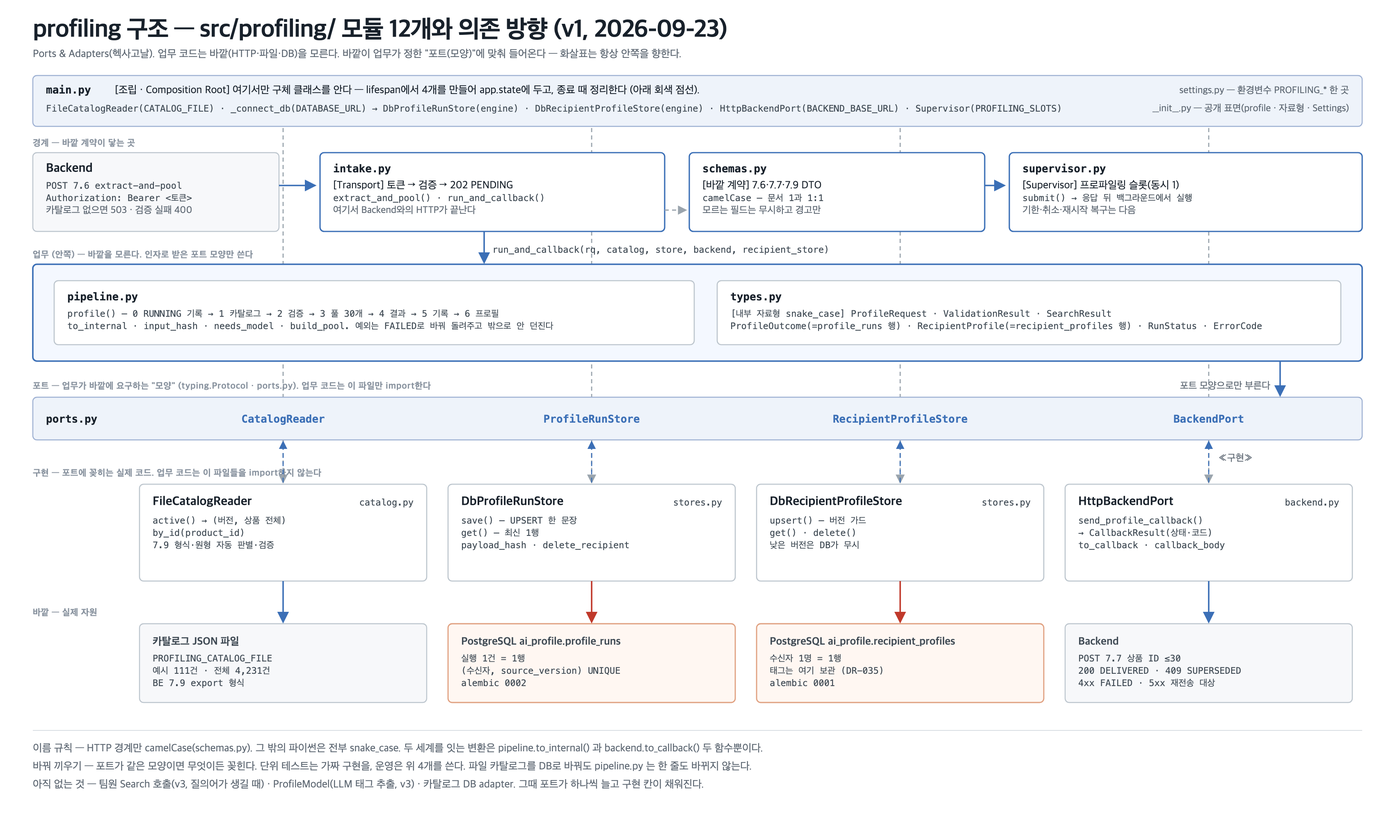
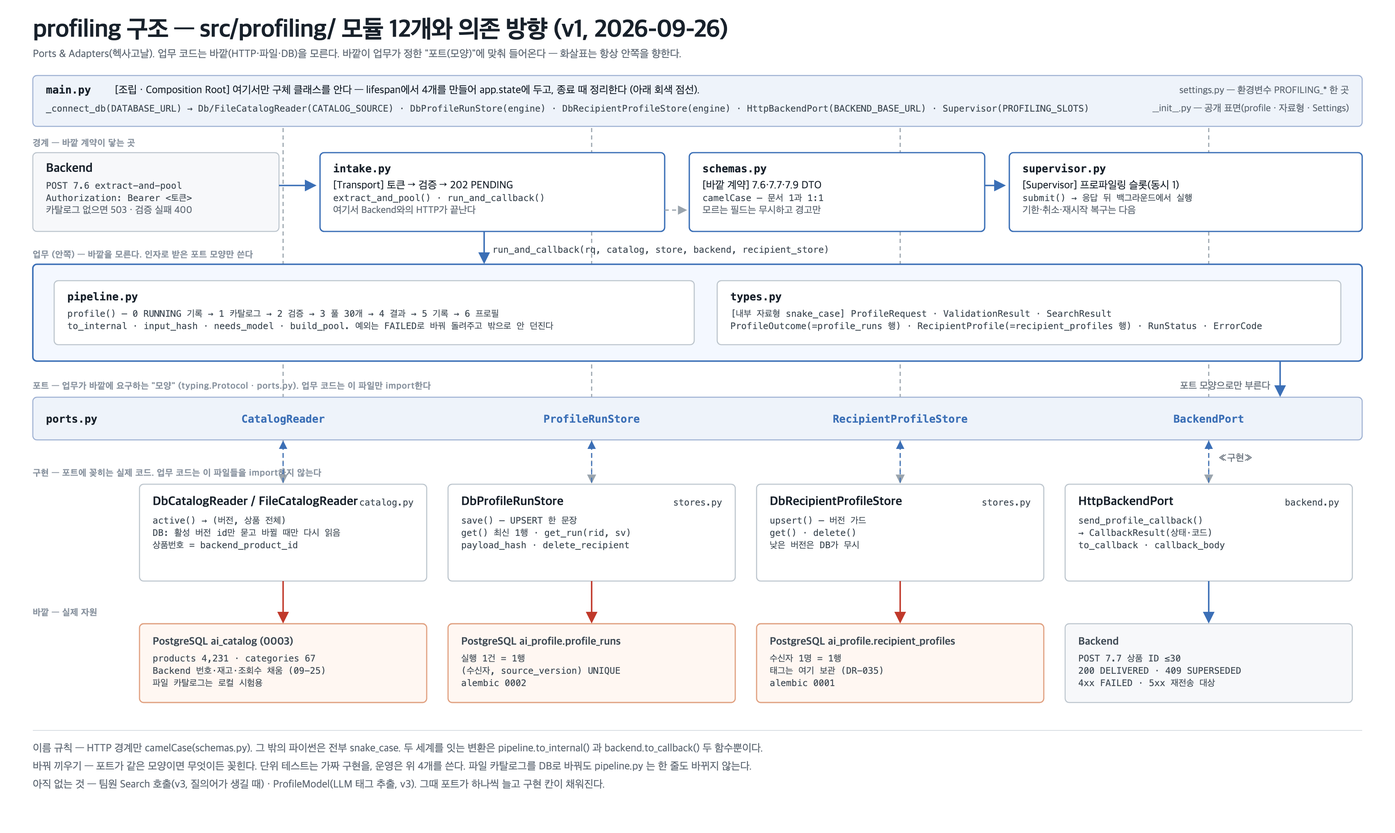
docs(profiling): 점검에서 나온 4건 수정 — 숫자·모순·빠진 이름·낡은 그림
① 시험 수  README 실행 예시(74 → 142) · 파이프라인 지도 09-25(126 → 142, 단위 110).
           09-22·09-23 판은 그날의 스냅샷이라 손대지 않는다.
② DB_ERD   §3.2·§3.3 열 설명이 "아직 전건 NULL" 인데 머리표·§6 은 4,231/4,231 이었다.
           같은 문서 안에서 서로 다른 말을 하고 있었다 → 열 설명을 회신 반영 상태로.
③ 참고 문서 코드_안내서에 decide·resend_callback·_send_and_record·get_run·CATALOG_SOURCE·
           RUNNING_STALE_S·availability(3값)를 넣고, 이름_대조표에 09-25 블록과
           callback_attempts ↔ BE retry_count 대응을 적었다.
④ 그림     structure(README 첫 화면) · class-diagram · v1-flow 세 장을 코드에 맞춰 다시 그렸다.
           - structure: 조립 줄이 CATALOG_SOURCE 로, 구현 칸에 DbCatalogReader·get_run,
             바깥 첫 칸이 파일 → ai_catalog(0003, 4,231건), "아직 없는 것"에서 카탈로그 adapter 제거
           - class-diagram: ProductRecord.available → availability, ProfileRunStore.get_run 추가,
             **없는 v3 포트 2개를 지우고 실재하는 RecipientProfileStore 와 Db 스토어 2개를 넣었다**
             (ports.py 의 Protocol 은 4개인데 그림은 v3 것을 그리고 RecipientProfileStore 를 빠뜨렸다)
           - v1-flow: 접수 단계 중복 판정 노트 추가, 카탈로그를 DB·파일로, build_pool 에 재고 규칙

그리는 과정에서 글자가 상자 밖으로 넘치는 곳 네 군데와 상자 겹침 한 곳을 같이 잡았다.
세 장 모두 렌더 후 열어 확인했다.

코드는 바뀌지 않았다 — 142 passed, 2 skipped · ruff 통과 · 깨진 링크 0 · 안 쓰는 그림 0.

diff --git a/profiling/docs/assets/build_structure.py b/profiling/docs/assets/build_structure.py
@@ -41,7 +41,7 @@ def lines(x, y, rows, dy=15):
 
 
 # ---------------------------------------------------------------- 머리
-t(40, 46, 'profiling 구조 — src/profiling/ 모듈 12개와 의존 방향 (v1, 2026-09-23)', 'title')
+t(40, 46, 'profiling 구조 — src/profiling/ 모듈 12개와 의존 방향 (v1, 2026-09-26)', 'title')
 t(40, 70, 'Ports & Adapters(헥사고날). 업무 코드는 바깥(HTTP·파일·DB)을 모른다. 바깥이 업무가 정한 "포트(모양)"에 맞춰 들어온다 — 화살표는 항상 안쪽을 향한다.', 'small')
 
 LANES = [(170, 350), (546, 350), (922, 350), (1298, 350)]   # (x, w) — 포트 4개가 세로로 한 줄씩
@@ -50,7 +50,7 @@ LANES = [(170, 350), (546, 350), (922, 350), (1298, 350)]   # (x, w) — 포트 
 box(40, 92, W - 80, 62, 'band')
 t(56, 114, 'main.py', 'monob')
 t(140, 114, '[조립 · Composition Root]  여기서만 구체 클래스를 안다 — lifespan에서 4개를 만들어 app.state에 두고, 종료 때 정리한다 (아래 회색 점선).', 'msg')
-t(56, 136, 'FileCatalogReader(CATALOG_FILE) · _connect_db(DATABASE_URL) → DbProfileRunStore(engine) · DbRecipientProfileStore(engine) · HttpBackendPort(BACKEND_BASE_URL) · Supervisor(PROFILING_SLOTS)', 'mono')
+t(56, 136, '_connect_db(DATABASE_URL) → Db/FileCatalogReader(CATALOG_SOURCE) · DbProfileRunStore(engine) · DbRecipientProfileStore(engine) · HttpBackendPort(BACKEND_BASE_URL) · Supervisor(PROFILING_SLOTS)', 'mono')
 t(W - 56, 114, 'settings.py — 환경변수 PROFILING_* 한 곳', 'sub', 'end')
 t(W - 56, 136, '__init__.py — 공개 표면(profile · 자료형 · Settings)', 'sub', 'end')
 
@@ -118,8 +118,8 @@ t(1548, PORT_Y - 10, '포트 모양으로만 부른다', 'sub', 'end')
 # ---------------------------------------------------------------- 구현
 IMPL_Y = 590
 t(40, IMPL_Y - 10, '구현 — 포트에 꽂히는 실제 코드. 업무 코드는 이 파일들을 import하지 않는다', 'tag')
-IMPL = [('catalog.py', 'FileCatalogReader', ['active() → (버전, 상품 전체)', 'by_id(product_id)', '7.9 형식·원형 자동 판별·검증']),
-        ('stores.py', 'DbProfileRunStore', ['save() — UPSERT 한 문장', 'get() — 최신 1행', 'payload_hash · delete_recipient']),
+IMPL = [('catalog.py', 'DbCatalogReader / FileCatalogReader', ['active() → (버전, 상품 전체)', 'DB: 활성 버전 id만 묻고 바뀔 때만 다시 읽음', '상품번호 = backend_product_id']),
+        ('stores.py', 'DbProfileRunStore', ['save() — UPSERT 한 문장', 'get() 최신 1행 · get_run(rid, sv)', 'payload_hash · delete_recipient']),
         ('stores.py', 'DbRecipientProfileStore', ['upsert() — 버전 가드', 'get() · delete()', '낮은 버전은 DB가 무시']),
         ('backend.py', 'HttpBackendPort', ['send_profile_callback()', '→ CallbackResult(상태·코드)', 'to_callback · callback_body'])]
 for (x, w), (mod, cls_, rows) in zip(LANES, IMPL):
@@ -133,7 +133,7 @@ t(LANES[3][0] + LANES[3][1] / 2 + 12, PORT_Y + 78, '«구현»', 'sub')
 # ---------------------------------------------------------------- 바깥
 OUT_Y = 760
 t(40, OUT_Y - 10, '바깥 — 실제 자원', 'tag')
-OUT = [('카탈로그 JSON 파일', 'ext', ['PROFILING_CATALOG_FILE', '예시 111건 · 전체 4,231건', 'BE 7.9 export 형식']),
+OUT = [('PostgreSQL  ai_catalog (0003)', 'db', ['products 4,231 · categories 67', 'Backend 번호·재고·조회수 채움 (09-25)', '파일 카탈로그는 로컬 시험용']),
        ('PostgreSQL  ai_profile.profile_runs', 'db', ['실행 1건 = 1행', '(수신자, source_version) UNIQUE', 'alembic 0002']),
        ('PostgreSQL  ai_profile.recipient_profiles', 'db', ['수신자 1명 = 1행', '태그는 여기 보관 (DR-035)', 'alembic 0001']),
        ('Backend', 'ext', ['POST 7.7 상품 ID ≤30', '200 DELIVERED · 409 SUPERSEDED', '4xx FAILED · 5xx 재전송 대상'])]
@@ -149,7 +149,7 @@ parts.append(f'<line x1="40" y1="{NY}" x2="{W-40}" y2="{NY}" class="rule"/>')
 lines(40, NY + 26, [
     ('이름 규칙 — HTTP 경계만 camelCase(schemas.py). 그 밖의 파이썬은 전부 snake_case. 두 세계를 잇는 변환은 pipeline.to_internal() 과 backend.to_callback() 두 함수뿐이다.', 'small'),
     ('바꿔 끼우기 — 포트가 같은 모양이면 무엇이든 꽂힌다. 단위 테스트는 가짜 구현을, 운영은 위 4개를 쓴다. 파일 카탈로그를 DB로 바꿔도 pipeline.py 는 한 줄도 바뀌지 않는다.', 'small'),
-    ('아직 없는 것 — 팀원 Search 호출(v3, 질의어가 생길 때) · ProfileModel(LLM 태그 추출, v3) · 카탈로그 DB adapter. 그때 포트가 하나씩 늘고 구현 칸이 채워진다.', 'small'),
+    ('아직 없는 것 — 팀원 Search 호출(v3, 질의어가 생길 때) · ProfileModel(LLM 태그 추출, v3). 그때 포트가 하나씩 늘고 구현 칸이 채워진다.', 'small'),
 ], 22)
 
 parts.append('</svg>')

diff --git a/profiling/docs/assets/build_class_diagram.py b/profiling/docs/assets/build_class_diagram.py
@@ -42,7 +42,7 @@ cls(222,258,150,'ReviewDto',['productId: int >0','rating: int 1..5','reviewText:
 cls(330,360,164,'ProfileAccepted',['recipientUserId','sourceVersion','profileStatus="PENDING"'],stereo='«7.6 응답 data»',blue=True)
 cls(56,360,250,'ProfileCallbackRequest',['recipientUserId: int >0','sourceVersion: int ≥0','profileStatus = "COMPLETED"','recommendedProductIds: list[int] ≤30','(태그 없음 — DR-035)'],stereo='«7.7 요청»',blue=True)
 cls(56,500,150,'ProfileCallbackAccepted',['recipientUserId','sourceVersion','profileStatus'],stereo='«7.7 응답 data»',blue=True)
-cls(330,585,164,'ProductRecord',['productId · name · brand','description: str|None','categoryId · categoryName','price · available','updatedAt'],stereo='«7.9 상품»',blue=True)
+cls(330,585,164,'ProductRecord',['productId · name · brand','description: str|None','categoryId · categoryName','price · availability','updatedAt'],stereo='«7.9 상품»',blue=True)
 cls(222,500,272,'SuccessResponse[T]  /  ErrorResponse',['message: str','data: T   |   error: ErrorBody{code, traceId}'],blue=True)
 line('M131 258 V246','has'); line('M297 258 V246','has')   # ExtractRequest ◇ Dto들
 
@@ -67,15 +67,16 @@ line('M576 470 H312','conv'); t(444,463,'backend.to_callback()','small','middle'
 pkg(1040,92,520,392,'ports.py — 포트 (typing.Protocol)')
 cls(1056,124,330,'CatalogReader',[],['active() → (version_id, list[ProductRecord])','by_id(product_id) → ProductRecord | None'],stereo='«Protocol»',yellow=True)
 cls(1400,124,144,'NoActiveCatalog',['(Exception)','7.6에서 503으로'])
-cls(1056,222,330,'ProfileRunStore',[],['save(outcome: ProfileOutcome) → None','get(recipient_user_id) → ProfileOutcome | None'],stereo='«Protocol»',yellow=True)
-cls(1056,320,330,'BackendPort',[],['send_profile_callback(outcome) → RunStatus'],stereo='«Protocol»',yellow=True)
-cls(1400,222,144,'(v3) ProfileModel',[],['analyze(prompt,','  schema, seed)','→ ExtractDraft'],stereo='«Protocol»',yellow=True)
-cls(1400,320,144,'(v3) Embedder',[],['embed_docs()','embed_query()'],stereo='«Protocol»',yellow=True)
+cls(1056,222,330,'ProfileRunStore',[],['save(outcome: ProfileOutcome) → None','get(recipient_user_id) → ProfileOutcome | None','get_run(rid, sv) → ProfileOutcome | None'],stereo='«Protocol»',yellow=True)
+cls(1056,332,330,'BackendPort',[],['send_profile_callback(outcome) → RunStatus'],stereo='«Protocol»',yellow=True)
+cls(1400,222,144,'RecipientProfileStore',[],['upsert(profile)','get(rid) · delete(rid)'],stereo='«Protocol»',yellow=True)
+cls(1400,332,144,'(v3 예정)',['ProfileModel','Embedder','— ports.py 에 없다'])
 t(1256,470,'ProductRecord(schemas) · ProfileOutcome(types)를 인자·반환으로 씀 → 회색 실선은 생략','st','middle')
 
 # ---------------- adapters  x 1040..1560
 pkg(1040,510,520,190,'adapters/ — 구현 (바깥과 닿는 코드). 스테레오타입이 어느 포트를 구현하는지')
-cls(1056,542,150,'FileCatalogReader',['path: Path','_products: list','_by_id: dict'],['active()','by_id()'],stereo='«CatalogReader 구현»')
+cls(1056,542,160,'Db/FileCatalogReader',['DbCatalogReader(engine)','FileCatalogReader(path)','provisional_ids'],['active()','by_id()'],stereo='«CatalogReader 구현»')
+cls(1232,542,166,'Db 스토어 2개',['DbProfileRunStore','DbRecipientProfileStore','engine: Engine'],['save · get · get_run','upsert · get · delete'],stereo='«Store 구현»')
 cls(1406,542,140,'HttpBackendPort',['base_url · token','timeout_s','_client: httpx.Client'],['send_profile_callback()','close()'],stereo='«BackendPort 구현»')
 
 # ---------------- pipeline.py  x 560..990
@@ -99,6 +100,6 @@ line('M1471 700 V740 H1206 V753','use'); t(1340,733,'httpx POST 7.7','small')
 
 parts.append(f'<line x1="40" y1="{H-70}" x2="{W-40}" y2="{H-70}" class="rule"/>')
 t(40,H-44,'의존 방향: transport → pipeline → ports ←(구현)— adapters.  업무 코드는 adapters를 import하지 않고, 조립(main.py)만 구체 클래스를 안다. 내일 DB adapter(SQLAlchemy)는 ProfileRunStore·CatalogReader를 그대로 구현해 main.py 세 줄만 교체.','small')
-t(40,H-22,'v3 추가: ProfileModel(Ollama·규칙 추출기) · Embedder(BGE-m3-ko) · Search 호출 — pipeline.profile() 안의 needs_model 분기 뒤에 붙는다. 자료형은 types.py의 DraftItem·ExtractDraft·ValidatedTag·Decision.','small')
+t(40,H-22,'v3 추가(아직 ports.py 에 선언 없음): ProfileModel(Ollama·규칙 추출기) · Embedder(BGE-m3-ko) · Search 호출 — pipeline.profile() 안의 needs_model 분기 뒤에 붙는다. 자료형은 types.py의 DraftItem·ExtractDraft·ValidatedTag·Decision.','small')
 parts.append('</svg>')
 (P/'class-diagram.svg').write_text('\n'.join(parts)+'\n',encoding='utf-8'); print('svg ok')

diff --git a/profiling/docs/assets/build_v1_flow.py b/profiling/docs/assets/build_v1_flow.py
@@ -12,7 +12,7 @@ def t(x,y,s,c='msg',anchor=None):
     parts.append(f'<text x="{x}" y="{y}" class="{c}"{an}>{escape(s)}</text>')
 # lifelines
 L=[('Backend',['(내일: 실제 · 오늘: curl)']),('intake.py',['Transport · 7.6 접수','run_and_callback() (Supervisor 슬롯)']),('pipeline.py',['to_internal · needs_model','build_pool · profile()']),
-   ('catalog.py',['CatalogReader (파일)']),('stores.py',['ProfileRunStore (DB)']),('backend.py',['BackendPort (HTTP)']),('tools/fake_backend',['7.7 수신'])]
+   ('catalog.py',['CatalogReader (DB·파일)']),('stores.py',['ProfileRunStore (DB)']),('backend.py',['BackendPort (HTTP)']),('tools/fake_backend',['7.7 수신'])]
 xs=[110,350,600,830,1020,1210,1380]
 t(40,48,'v1 프로파일링 한 건 — 파일 사이의 호출 순서 (7.6 접수 → 202 → 백그라운드 → 7.7 콜백)','title')
 t(40,74,'실선 파랑 = 호출, 점선 회색 = 반환. 노란 상자 = 그 시점에 쓰는 자료형(schemas.py = 바깥 계약 camelCase · types.py = 내부 snake_case). 조립(main.py)은 맨 아래.','small')
@@ -44,13 +44,14 @@ call(290,1,3,'catalog.active() 있는가?  없으면 503','2')
 ret(308,3,1,'(version_id, products)')
 call(335,1,0,'202 SuccessResponse[ProfileAccepted]','3'); t(120,352,'profileStatus = PENDING','mono')
 t(350,372,'── 여기서 HTTP 응답 끝. 아래는 Supervisor 슬롯 안의 백그라운드 (같은 프로세스, 응답과 무관) ──','small','middle')
+note(860,318,470,['202 직전 — 접수 단계 중복 판정 (decide)','store.get_run(수신자, sourceVersion) + input_hash 비교','analyze 아래대로 · resend 재분석 없이 7.7만 · skip 이미 RUNNING'])
 
 call(400,1,2,'to_internal(body)','4'); ret(418,2,1,'ProfileRequest  (types.py, snake_case)')
 call(450,1,2,'profile(rq, catalog=, store=)','5')
 act(2,450,690)
 note(615,462,330,['needs_model(rq) → False   (결정 c: 취향 null · 리뷰 [])','→ extract · validate 건너뜀'])
 call(530,2,3,'active()','6'); ret(548,3,2,'(1, [ProductRecord…])')
-note(615,562,420,['validation = ValidationResult(disliked_tags=비선호 이름, 나머지 [])','search = build_pool(products, 비선호 제외, 30)  (결정 a)','outcome = ProfileOutcome(RESULT_READY, validation, search)'])
+note(615,562,420,['validation = ValidationResult(disliked_tags=비선호 이름, 나머지 [])','search = build_pool(재고 unavailable 제외 · 비선호 제외 · 조회수↓ 30)','outcome = ProfileOutcome(RESULT_READY, validation, search)'])
 call(650,2,4,'save(outcome)','7'); ret(668,4,2,'')
 ret(690,2,1,'ProfileOutcome')
 note(360,705,330,['if outcome.status == RESULT_READY  → 콜백','FAILED 이면 콜백 없음 (AI는 침묵, Backend가 판정)'])
@@ -63,7 +64,7 @@ ret(884,5,1,'RunStatus  DELIVERED · SUPERSEDED · FAILED · RESULT_READY(재시
 t(350,900,'log.info("7.7 콜백 결과 … → DELIVERED")   ※ 실행 기록 상태 갱신·재시도는 DB adapter 뒤(#23)','small','middle')
 
 parts.append(f'<line x1="40" y1="{BOT+14}" x2="{W-40}" y2="{BOT+14}" class="rule"/>')
-t(40,BOT+40,'조립 (main.py, 시작 1회):  lifespan에서 FileCatalogReader(settings.CATALOG_FILE) · DbProfileRunStore(engine) · HttpBackendPort(settings.BACKEND_BASE_URL, token)를 만들어 app.state에 두고, 라우터는 Depends로 꺼내 pipeline에 넘긴다.','small')
+t(40,BOT+40,'조립 (main.py, 시작 1회):  lifespan에서 Db/FileCatalogReader(settings.CATALOG_SOURCE) · DbProfileRunStore(engine) · HttpBackendPort(settings.BACKEND_BASE_URL, token)를 만들어 app.state에 두고, 라우터는 Depends로 꺼내 pipeline에 넘긴다.','small')
 t(40,BOT+62,'의존 방향:  api → pipeline → ports(Protocol 모양)  ←구현─ adapters.   pipeline은 adapters 파일을 import하지 않는다. 테스트(tests/unit)는 ports 모양의 가짜를 넣어 5·6·7만 돌린다.','small')
 t(40,BOT+84,'v3에서 바뀌는 곳: 5단계 안에서 needs_model → True면 카탈로그 조인 → ProfileModel.analyze() → validator → Search. 1~4, 7~9는 그대로.','small')
 parts.append('</svg>')

diff --git a/profiling/docs/문서_목록.md b/profiling/docs/문서_목록.md
@@ -1,4 +1,4 @@
-# 문서 색인 — 다른 사람(또는 다른 AI)에게 넘길 때 (2026-09-26 점검)
+# 문서 색인 — 다른 사람(또는 다른 AI)에게 넘길 때 (2026-09-26 점검 · 지적 4건 반영 완료)
 
 이 폴더의 문서가 **무엇을 담고 있고, 지금 코드와 맞는지**를 한 장에 정리한 것. 넘기기 전에 이 표의 "최신성"만 보면 된다.
 
@@ -14,10 +14,10 @@
 
 | # | 문서 | 무엇 | 최신성 |
 |---|---|---|---|
-| 1 | [../README.md](../README.md) | 구조·실행·테스트·다음 순서. 시작점 | ⚠ 실행 예시의 시험 수가 낡음(§4 ①) |
-| 2 | [코드_안내서.md](코드_안내서.md) | 파일·함수별 역할 (처음 보는 사람용) | ⚠ 09-25 작업(중복 판정·재고 3값)이 빠짐(§4 ③) |
+| 1 | [../README.md](../README.md) | 구조·실행·테스트·다음 순서. 시작점 | ✅ |
+| 2 | [코드_안내서.md](코드_안내서.md) | 파일·함수별 역할 (처음 보는 사람용) | ✅ |
 | 3 | [시퀀스_전체.md](시퀀스_전체.md) | 구현된 전체 순서 — 기동·성공·접수 거절·분석 실패·콜백 4갈래·슬롯 (그림 6장) | ✅ |
-| 4 | [DB_ERD.md](DB_ERD.md) | AI가 소유한 표 5개 구조·키·관계 (그림 2장) | ⚠ 열 설명 2줄이 낡음(§4 ②) |
+| 4 | [DB_ERD.md](DB_ERD.md) | AI가 소유한 표 5개 구조·키·관계 (그림 2장) | ✅ |
 
 ## 2. 계약 (Backend와 주고받는 것)
 
@@ -27,7 +27,7 @@
 | [BE_연동_필드표_v1.md](BE_연동_필드표_v1.md) | **7.6·7.7 필드·`profileStatus` 생애주기·재시도/재전송 구분·시퀀스 6장·BE 확인 요청** — BE에 그대로 보내는 판 | ✅ (§6 오류 코드 부록은 목차에만 있고 아직 안 씀) |
 | [BE_연동_필드표_v2.md](BE_연동_필드표_v2.md) | 7.9 상품 export | ✅ |
 | [BE_연동_필드표_v3.md](BE_연동_필드표_v3.md) | 취향·리뷰(v3) | ✅ (v3는 아직 구현 전) |
-| [../이름_대조표.md](../이름_대조표.md) | 같은 뜻 다른 이름 (camelCase ↔ snake_case) | ⚠ 09-25 이름들이 빠짐(§4 ③) |
+| [../이름_대조표.md](../이름_대조표.md) | 같은 뜻 다른 이름 (camelCase ↔ snake_case) | ✅ |
 
 ## 3. 그 밖
 
@@ -37,12 +37,14 @@
 | [FE_연동_시험_결과_2026-09-25.md](FE_연동_시험_결과_2026-09-25.md) | 위 시나리오 실행 기록·분석 (8/8 통과, 고칠 것 3개) | ✅ |
 | [DB_전환_설명.md](DB_전환_설명.md) | 메모리 → PostgreSQL 전환 경위 (그림) | 📌 09-23 기록 |
 | [환경_설정.md](환경_설정.md) | uv · Python 3.12 · 의존성 | ✅ |
-| [파이프라인_지도/](파이프라인_지도/) | 날짜별 스냅샷 — [09-25](파이프라인_지도/2026-09-25.md)가 최신, 그 앞은 📌 | ⚠ 09-25 판의 시험 수가 낡음(§4 ①) |
+| [파이프라인_지도/](파이프라인_지도/) | 날짜별 스냅샷 — [09-25](파이프라인_지도/2026-09-25.md)가 최신, 그 앞은 📌 | ✅ |
 | [../tools/catalog/returned/2026-09-25/README.md](../tools/catalog/returned/2026-09-25/README.md) | Backend 회신(xlsx 2종)을 어떻게 이었나 | ✅ |
 
-## 4. 넘기기 전에 고칠 것 — 이번 점검에서 나온 것
+## 4. 이번 점검에서 나온 것 — **넷 다 고쳤다 (2026-09-26)**
 
-### ① 시험 수가 세 곳에서 낡았다
+무엇이 어떻게 틀렸었는지 남긴다. 같은 실수를 다시 찾을 때 기준이 된다.
+
+### ① 시험 수가 세 곳에서 낡았다 — 고침
 
 | 위치 | 적힌 값 | 실제 |
 |---|---|---|
@@ -51,7 +53,7 @@
 
 09-22·09-23 판의 숫자는 📌 스냅샷이므로 **그대로 둔다.**
 
-### ② `DB_ERD.md` 안에서 서로 다른 말을 한다
+### ② `DB_ERD.md` 안에서 서로 다른 말을 했다 — 고침
 
 | 위치 | 적힌 값 |
 |---|---|
@@ -60,14 +62,14 @@
 
 09-25 회신을 반영하면서 §6만 고치고 열 설명을 안 고쳤다. 같은 문서 안에서 모순이라 읽는 사람이 어느 쪽을 믿을지 알 수 없다.
 
-### ③ 참고 문서 두 개에 09-25 이름이 없다
+### ③ 참고 문서 두 개에 09-25 이름이 없었다 — 고침
 
 | 문서 | 빠진 것 |
 |---|---|
 | `코드_안내서.md` | `get_run` · `decide` · `resend_callback` · `availability`(3값) — 중복 판정과 재고 3값이 통째로 없음 |
 | `이름_대조표.md` | `get_run` · `decide` · `DbCatalogReader` · `retry_count` |
 
-### ④ 그림 세 장이 코드보다 낡았다 (README 대표 그림 포함)
+### ④ 그림 세 장이 코드보다 낡았다 (README 대표 그림 포함) — 다시 그림
 
 | 그림 | 쓰는 곳 | 만든 날 | 지금과 다른 점 |
 |---|---|---|---|
@@ -75,7 +77,7 @@
 | `assets/class-diagram.png` | `코드_안내서.md` | 09-23 | `ProductRecord.available`(bool) — 지금은 `availability` 3값 · `FileCatalogReader`만 · **`ports.py`에 v3 `ProfileModel`·`Embedder`가 그려져 있는데 09-23에 지운 선언** · `get_run` 없음 |
 | `assets/v1-flow.png` | `코드_안내서.md` | 09-23 | 접수 단계 **중복 판정(`decide`)이 없음** · `catalog.py (파일)` · 조립 설명이 파일 카탈로그 전제 |
 
-나머지 그림은 소스(md·py)를 고칠 때마다 다시 그려서 맞다 — `assets/seq/`(6) · `assets/erd/`(2) · `assets/be-seq/v1|v2|v3`(9) · `assets/pipeline-map.png` · `파이프라인_지도/assets/`(날짜 스냅샷 3).
+고치면서 상자 밖으로 넘치는 글자 네 곳(상자 제목 2 · 메서드 줄 1 · `availability` 1)과 상자 겹침 한 곳을 같이 잡았다. 나머지 그림은 소스(md·py)를 고칠 때마다 다시 그려서 맞다 — `assets/seq/`(6) · `assets/erd/`(2) · `assets/be-seq/v1|v2|v3`(9) · `assets/pipeline-map.png` · `파이프라인_지도/assets/`(날짜 스냅샷 3).
 
 ## 5. 점검 방법 (다음에 또 할 때)
 

diff --git a/profiling/이름_대조표.md b/profiling/이름_대조표.md
@@ -9,6 +9,8 @@
 
 > **2026-09-22 이름 정렬**: 3단계 도표와 같은 이름으로 바꿈 — 포트 `CatalogSource→CatalogReader`, `ProfileStore→ProfileRunStore`, `BackendGateway→BackendPort`; 구현 `FileCatalog→FileCatalogReader`, `MemoryStore→MemoryProfileRunStore`, `HttpBackend→HttpBackendPort`; 패키지 `api/→transport/`(`profile.py→intake.py`); `supervisor.py` 신설.
 
+> **2026-09-25 두 가지**: ① 재고를 검색기와 같은 **3값**으로 — `ProductRecord.available: bool` → `availability`(`available`·`unavailable`·`unknown`), DB 열 `products.availability`. 7.9의 boolean 은 `true→available`·`false→unavailable`·없음/null→`unknown` 으로 받는다. ② **접수 단계 중복 판정** — `ProfileRunStore.get_run(rid, sv)` 신설, `intake.decide()`·`resend_callback()`·`_send_and_record()` 추가. Backend 는 같은 `sourceVersion` 으로 최대 2회 재전송하고 그 횟수를 자기 표의 `retry_count` 에 둔다(우리 쪽 대응은 `callback_attempts`).
+
 ## 1. 수신자·요청 식별
 
 | 뜻 | 이름 | 형 | 파일 | 비고 |
@@ -94,7 +96,7 @@
 | 콜백 결과 | `CallbackResult` = `{status: RunStatus, http_status, code: ErrorCode, message}` | 모델 | PO(`BackendPort.send_profile_callback` 반환), B, A(`run_and_callback`) | 09-22: 반환이 `RunStatus`에서 이것으로 |
 | 7.6 모르는 필드 | `unknown_fields(body)` → `{"": [...], "dislikedCategories": [...], "reviews": [...]}` | 함수 | S, A(접수 로그) | DTO는 `extra="allow"` |
 | 요청 본문 해시 | `input_hash` | `str \| None` (sha256 hex) | T(`ProfileOutcome`), P(`input_hash(rq)`), SD(NOT NULL 열) | 비선호는 ID 순 정렬 후 해시 — 같은 키·다른 입력 감지 |
-| 콜백 시도 수 | `callback_attempts` | int | T(`ProfileOutcome`), A(콜백 뒤 +1), SD(`greatest`) | |
+| 콜백 시도 수 | `callback_attempts` | int | T(`ProfileOutcome`), A(콜백 뒤 +1), SD(`greatest`) | BE 쪽 대응은 `profiles.retry_count`(재전송 횟수, 최대 2 · 09-25) — 세는 대상이 달라 값이 같지 않을 수 있다 |
 | 콜백 본문(저장용) | `callback_payload` · `callback_hash` | jsonb · text | SD 열 — 값은 B `callback_body(outcome)`로 만듦 | 전송(`to_callback`)과 같은 함수 → 재전송이 같은 payload |
 | 프롬프트·검증기 판 | `prompt_version` · `validator_version` | `str \| None` | T(`ProfileOutcome`), P(v1: `None`·`"v1-skip"` 예정) | 관측 라벨 |
 

diff --git a/profiling/docs/파이프라인_지도/2026-09-25.md b/profiling/docs/파이프라인_지도/2026-09-25.md
@@ -6,7 +6,7 @@
 | 범위 | **v1** — 비선호 카테고리만 반영. 취향 문장·리뷰를 읽는 모델·검증기는 v3 |
 | 동작 | 7.6 접수 → **중복 판정** → 202 → 백그라운드 → 재고 없음·비선호 제외 → 조회수순 30개 → 7.7 콜백 → 결과를 DB에 기록 |
 | 저장소 | PostgreSQL — `ai_profile`(실행 기록·수신자 프로필) · `ai_catalog`(카탈로그 4,231건, **Backend 번호·재고·조회수 전건 채움**). 표 구조는 [DB_ERD.md](../DB_ERD.md) |
-| 테스트 | `uv run pytest -q` → **126 passed, 2 skipped**. 단위 94(DB 없이) · 통합 34(진짜 PostgreSQL) |
+| 테스트 | `uv run pytest -q` → **142 passed, 2 skipped**. 단위 110(DB 없이) · 통합 34(진짜 PostgreSQL) |
 | 지난 판 | [2026-09-23.md](2026-09-23.md) |
 
 ![파이프라인 지도 2026-09-25](assets/pipeline-map_2026-09-25.png)
@@ -50,8 +50,8 @@
 cd profiling && docker compose up -d && uv run alembic upgrade head
 ```
 
-- `uv run pytest -q` → **126 passed, 2 skipped**
-- 단위가 DB 없이 도는지: `PROFILING_DATABASE_URL="postgresql+psycopg://x:x@127.0.0.1:1/none" uv run pytest tests/unit -q` → 92 passed, 2 skipped
+- `uv run pytest -q` → **142 passed, 2 skipped**
+- 단위가 DB 없이 도는지: `PROFILING_DATABASE_URL="postgresql+psycopg://x:x@127.0.0.1:1/none" uv run pytest tests/unit -q` → 108 passed, 2 skipped
 - 통합이 DB 없으면 건너뛰는지: 같은 환경변수로 `uv run pytest tests/integration -q` → 34 skipped
 - `uv run ruff check src tests tools alembic` → `All checks passed!`
 - **중복 판정 눈으로 보기** — `tools/fake_backend`(:8081) 콘솔에서 같은 본문을 두 번 보낸다. 두 번째 로그에 `7.6 중복 판정 … → resend`와 `7.7 재전송 … 재분석 없음`이 찍히고 `profile …` 로그는 **없다**. `psql`로 `select attempt, callback_attempts from ai_profile.profile_runs …` → `1, 2`

diff --git a/profiling/docs/DB_ERD.md b/profiling/docs/DB_ERD.md
@@ -195,7 +195,7 @@ Backend 전달 패키지(`product-catalog-20260922-v1`)를 `tools/catalog/load_c
 | `name` | text | NOT NULL | |
 | `level` | smallint | NOT NULL | `1` 대분류 · `2` 소분류 (CHECK) |
 | `product_count` | integer | NOT NULL | 패키지가 선언한 수 |
-| `backend_category_id` | bigint **UNIQUE** | NULL | Backend `categories.id`. **아직 전건 NULL** |
+| `backend_category_id` | bigint **UNIQUE** | NULL | Backend `categories.id`. **67/67 채움 (09-25 회신)** — 7.6 `dislikedCategories[].categoryId`가 이 값 |
 | `taxonomy_version` | text | NOT NULL | |
 
 두 CHECK가 계층을 강제한다 — `level IN (1,2)`, 그리고 `(level = 1) = (parent IS NULL)`(대분류는 부모가 없고 소분류는 반드시 있다).
@@ -205,7 +205,7 @@ Backend 전달 패키지(`product-catalog-20260922-v1`)를 `tools/catalog/load_c
 | 열 | 타입 | NULL | 뜻 |
 |---|---|---|---|
 | `source_product_id` | text **PK** | — | `KAKAO_GIFT:10002797`. 지금 우리가 가진 유일한 키 |
-| `backend_product_id` | bigint **UNIQUE** | NULL | Backend `products.id`. **아직 전건 NULL** — 7.7로 내보낼 번호가 이것 |
+| `backend_product_id` | bigint **UNIQUE** | NULL | Backend `products.id`. **4,231/4,231 채움 (09-25 회신)** — 7.7로 내보내는 번호가 이것 |
 | `name` · `brand` · `product_kind` · `description` | text | NOT NULL | |
 | `source_category_id` | text **FK→categories** | NOT NULL | 소분류만 온다 |
 | `product_type` | text | NOT NULL | `Shipping`(3,824) · `Voucher`(405) · `Pickup`(2) (CHECK) |

diff --git a/profiling/README.md b/profiling/README.md
@@ -91,7 +91,7 @@ uv sync                                     # .venv + 의존성 (uv.lock 기준)
 cp .env.example .env                        # 필요 시 값 수정
 docker compose up -d                        # 로컬 PostgreSQL (Docker Desktop 켜져 있어야 함)
 uv run alembic upgrade head                 # 테이블 생성 (0001~0003)
-uv run pytest -q                            # 74 passed, 2 skipped (DB 꺼져 있으면 통합 18개 skip)
+uv run pytest -q                            # 142 passed, 2 skipped (DB 꺼져 있으면 통합 34개 skip)
 uv run ruff check src tests tools alembic   # lint
 ```
 
